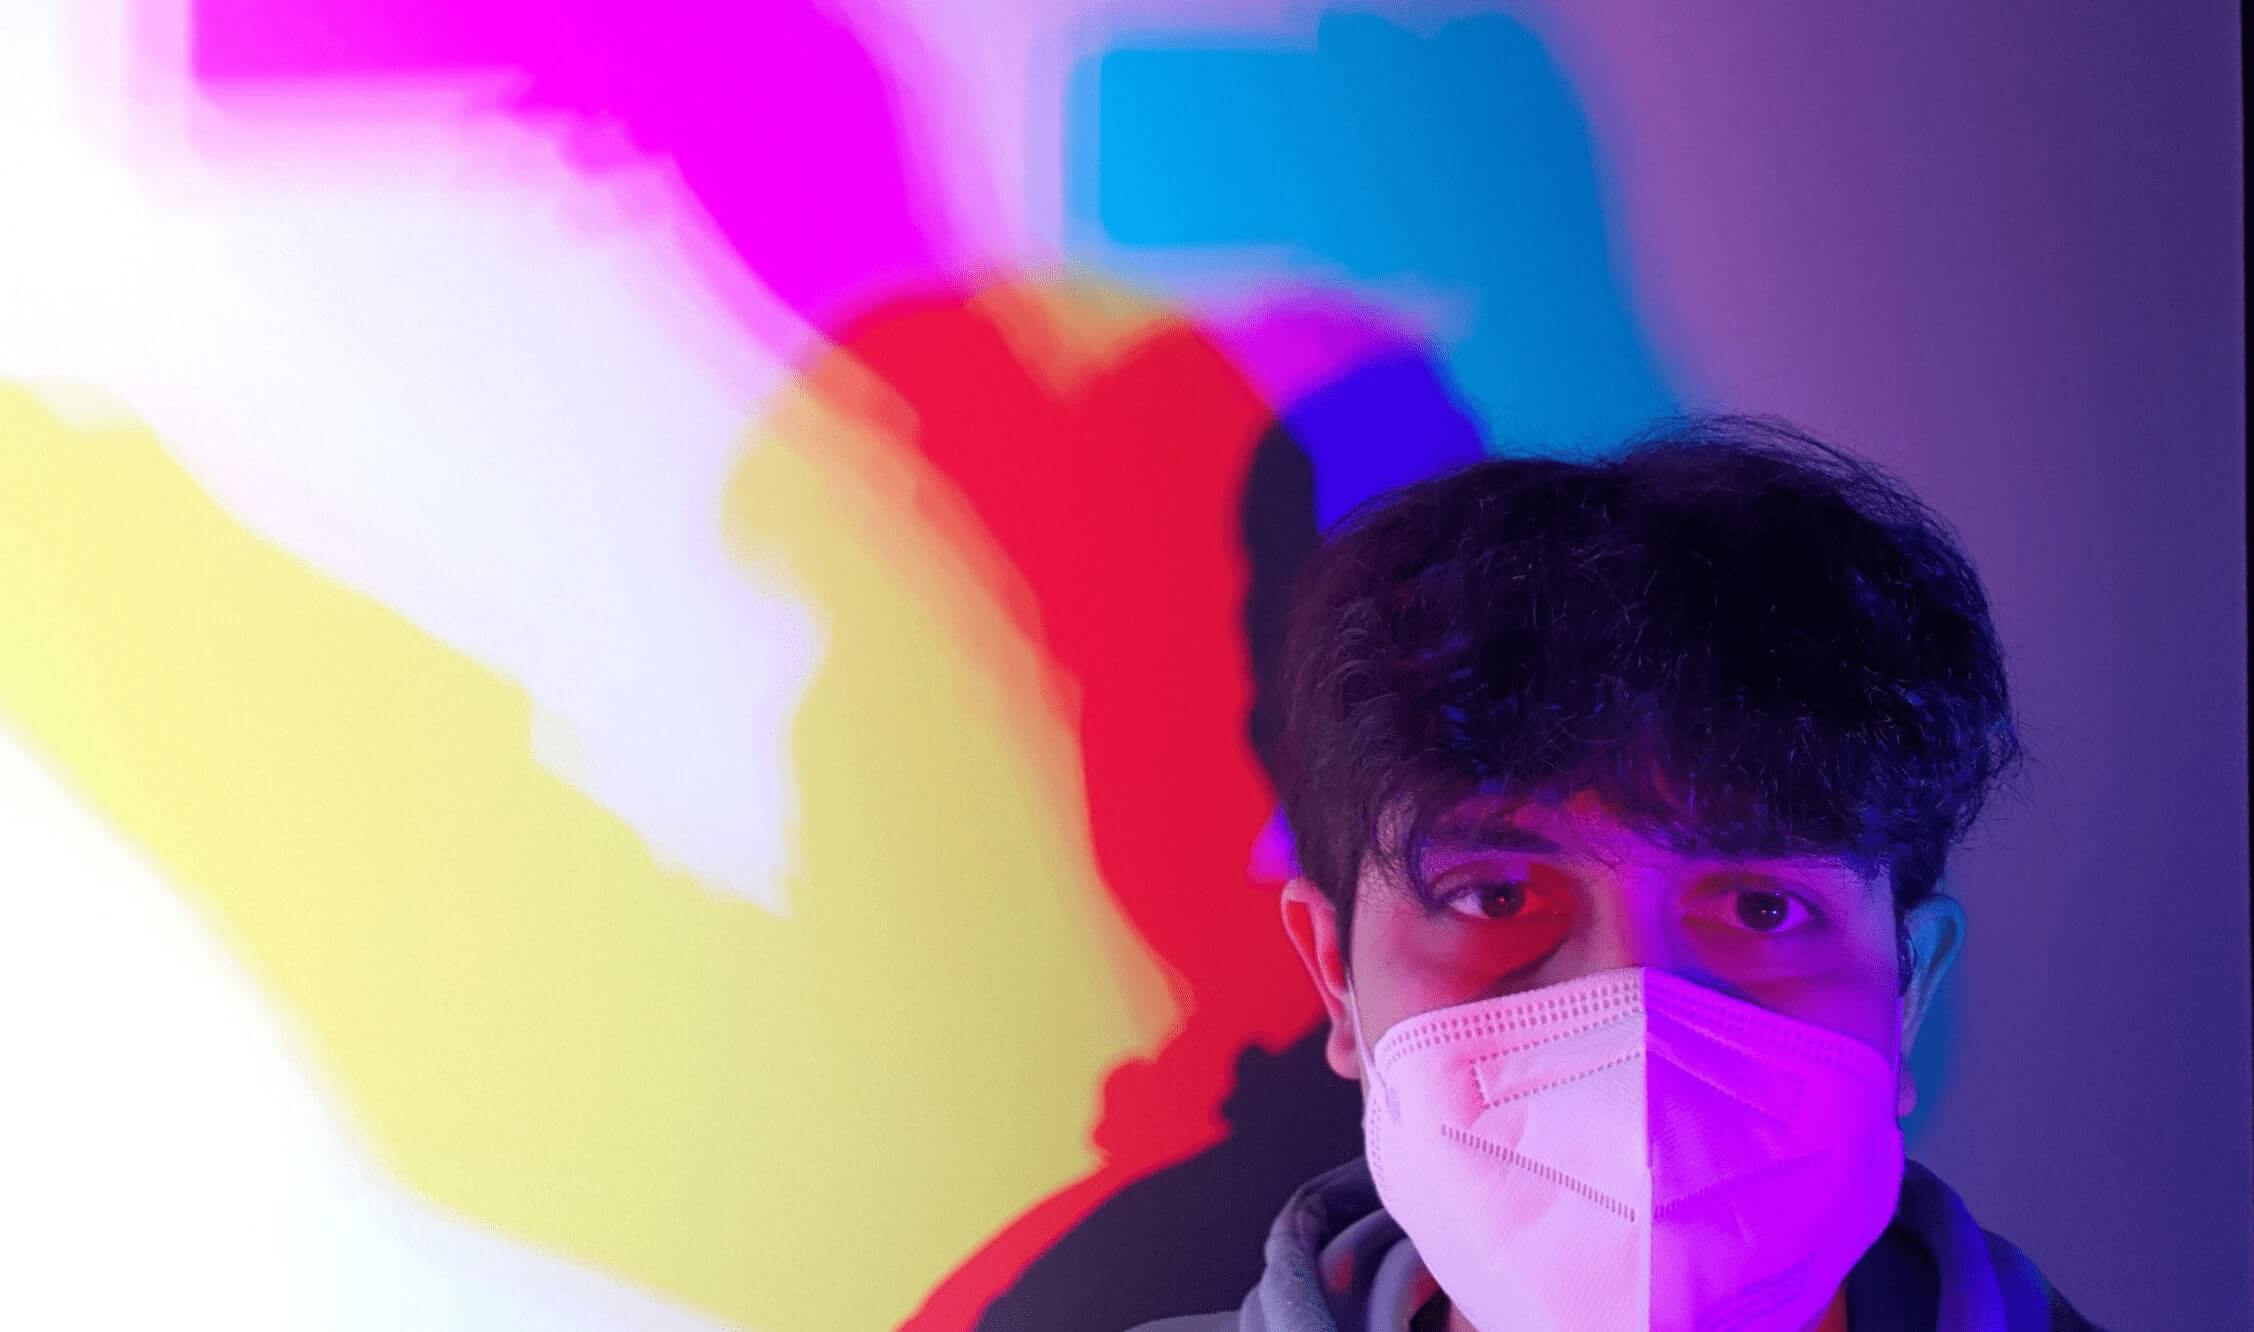
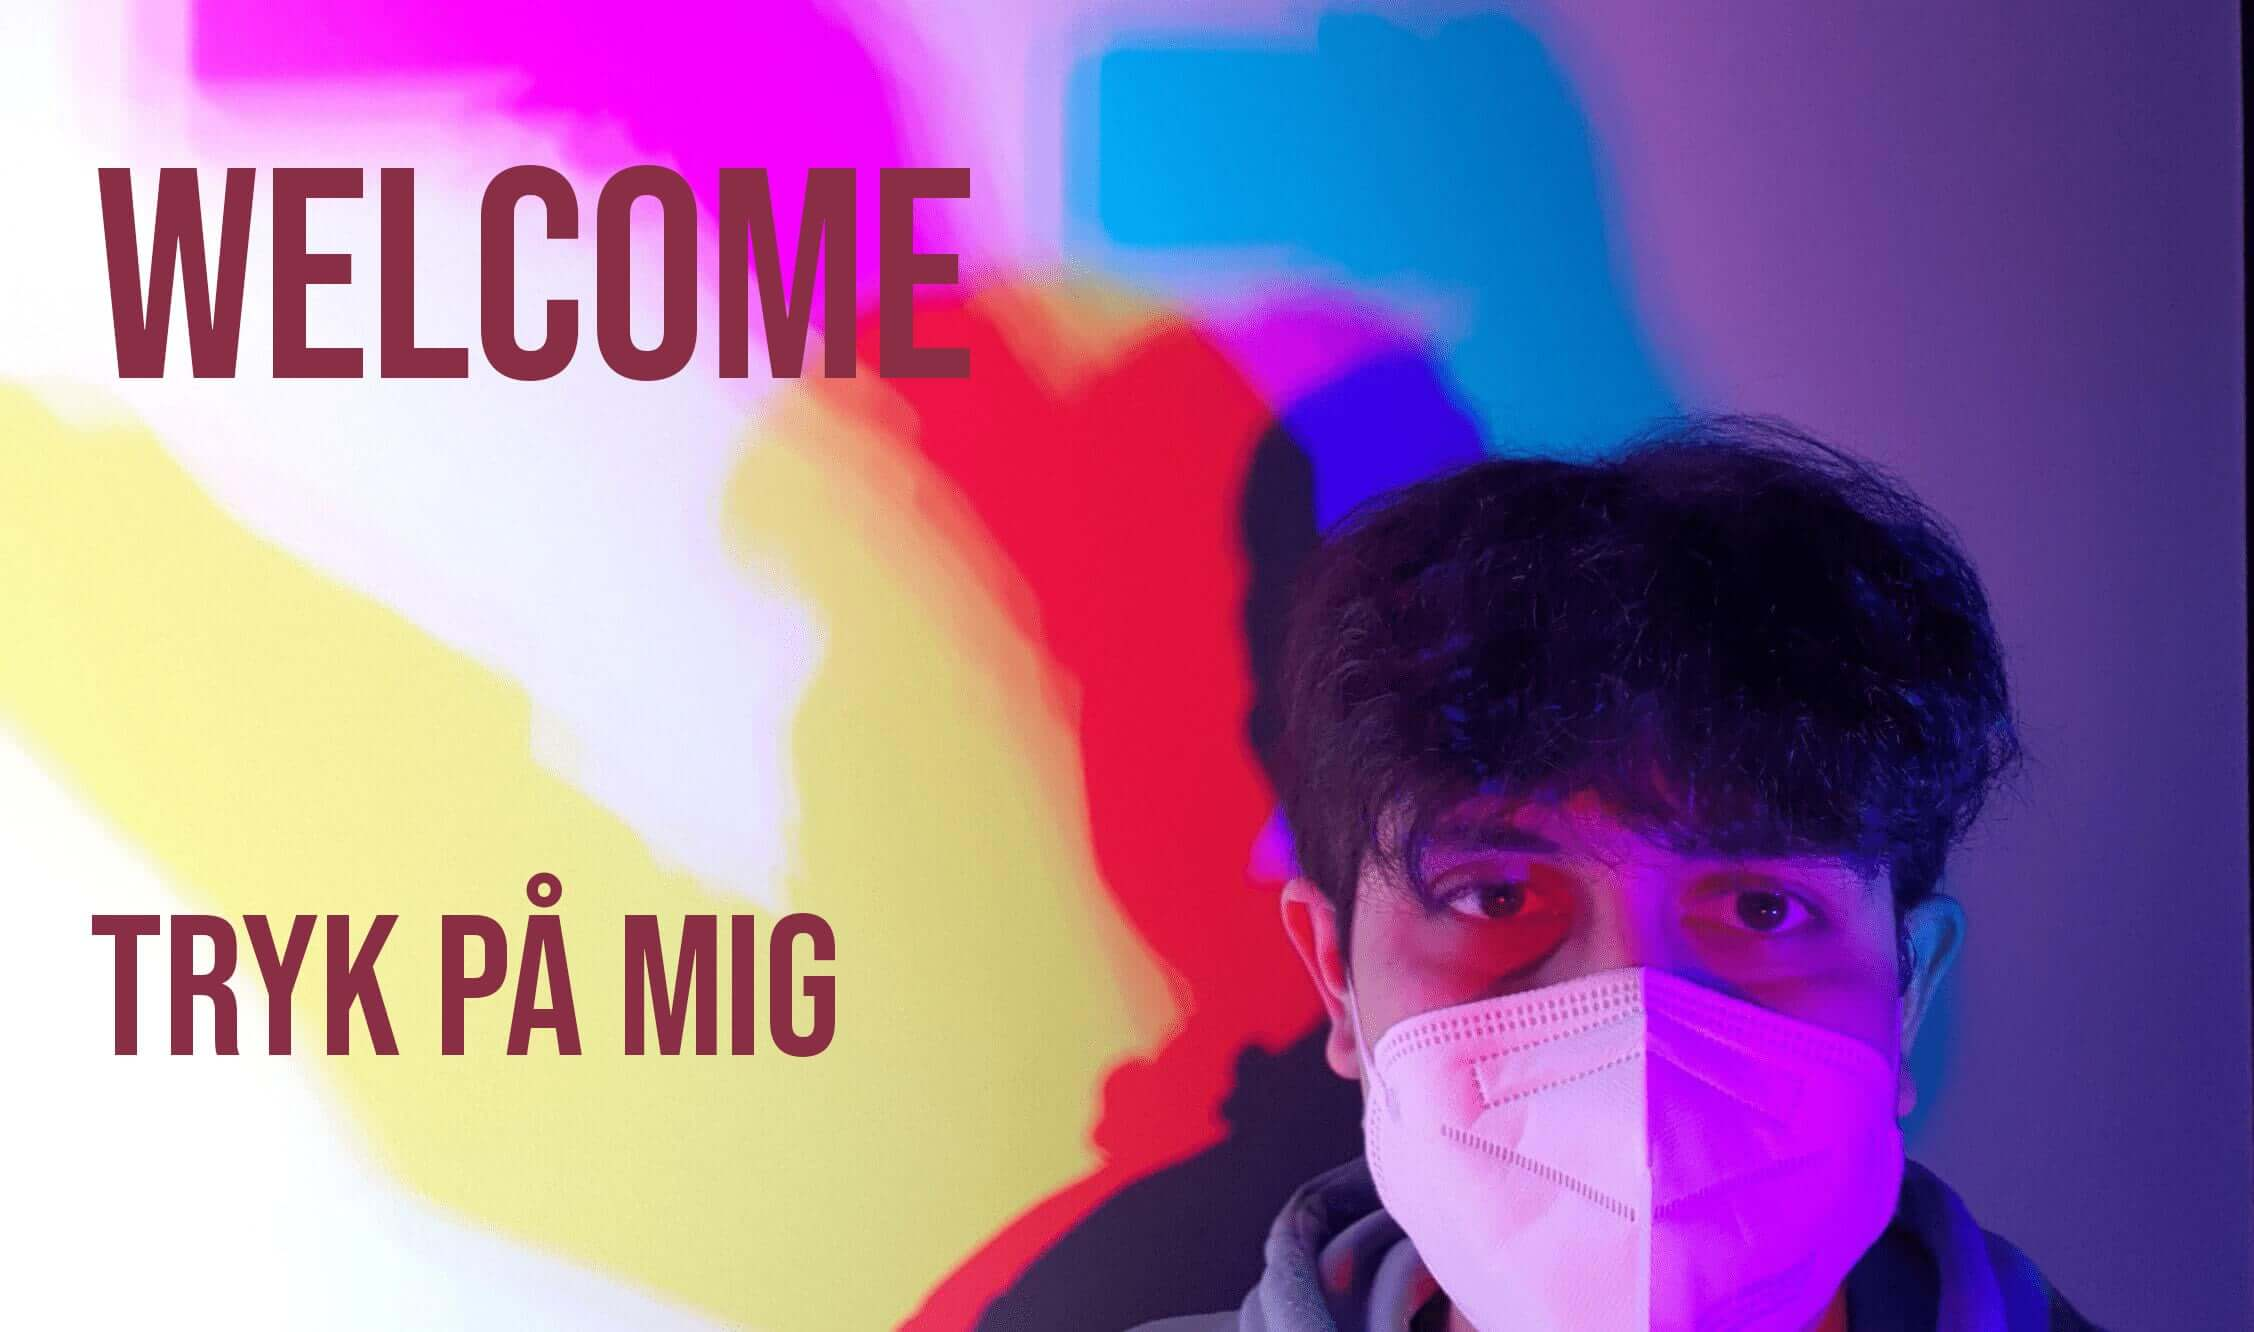
Forside

Changed region(s): [[0.0311, 0.1231, 0.4348, 0.3078], [0.0311, 0.6464, 0.3727, 0.8003]]

diff --git a/exam/style.css b/exam/style.css
@@ -2,7 +2,7 @@
 /*CSS Document*/
 
 body {
-    background-color: #1b1b44;
+    background-color: #dadada;
     padding: 0px;
     margin: 0px;
   }
@@ -15,21 +15,33 @@ body {
   height: 100%;
   max-width: 100px;
   max-height: 100px;
-  background: rgb(224, 225, 239);
+  background: #dadada;
+  padding: 1px;
+  margin:0px;
 }
 
-.header h1 {
-  position: relative;
-  text-align: right;
-  display: block;
-  color: antiquewhite;
-}
 .header  {
     padding: 40px;
     max-height: 100px;
     text-align: right;
-    background: #7e7e82;
+    background: #080a41;
   }
+
+.btn {
+    border: 1px;
+    background-color: inherit;
+    padding: 10px;
+    font-size: 15px;
+    font-family: 'Franklin Gothic Medium', 'Arial Narrow', Arial, sans-serif;
+    cursor: pointer;
+    display: inline-block;
+}
+
+.btn:hover {background: #7A7E86;}
+.success {color: #DFE3EA;}
+.info {color: #DFE3EA;}
+.warning {color: #DFE3EA;}
+.danger {color: #DFE3EA;}
 
 img {
     width: 95%;

diff --git a/exam/index.html b/exam/index.html
@@ -11,7 +11,15 @@
 <div class="header">
     <a style="display: contents" href="index.html">
     <img src="ablogo.png" alt="" srcset=""></a>
-    <h1>Forside</h1>
+
+    <a style="display: contents" href="index.html">
+    <button class="btn success">Forside</button></a>
+    <a style="display: contents" href="vaerk.html">
+    <button class="btn info">Værker</button></a>
+    <a style="display: contents" href="mig.html">
+    <button class="btn warning">Mig</button></a>
+    <a style="display: contents" href="kontakt.html">
+    <button class="btn danger">Kontakt</button></a>
 </div>
 
 <div class="flex-container">

diff --git a/exam/kontakt.html b/exam/kontakt.html
@@ -1,0 +1,22 @@
+<!DOCTYPE html>
+<html>
+<head>
+    <meta charset="utf-8" />
+    <meta name="viewport" content="width=device-width, initial-scale=1, shrink-to-fit=no">
+    <title>mig</title>
+    <link href="style.css" rel="stylesheet" type="text/css">
+</head>
+<body>
+
+<h1>Exam</h1>
+<p>exam projekt</p>
+
+<div class="flex-container">
+    <img src="ab.jpeg" alt="" srcset="">
+    <img src="vaerk.jpeg" alt="" srcset="">
+</div>
+
+
+
+</body>
+</html>
